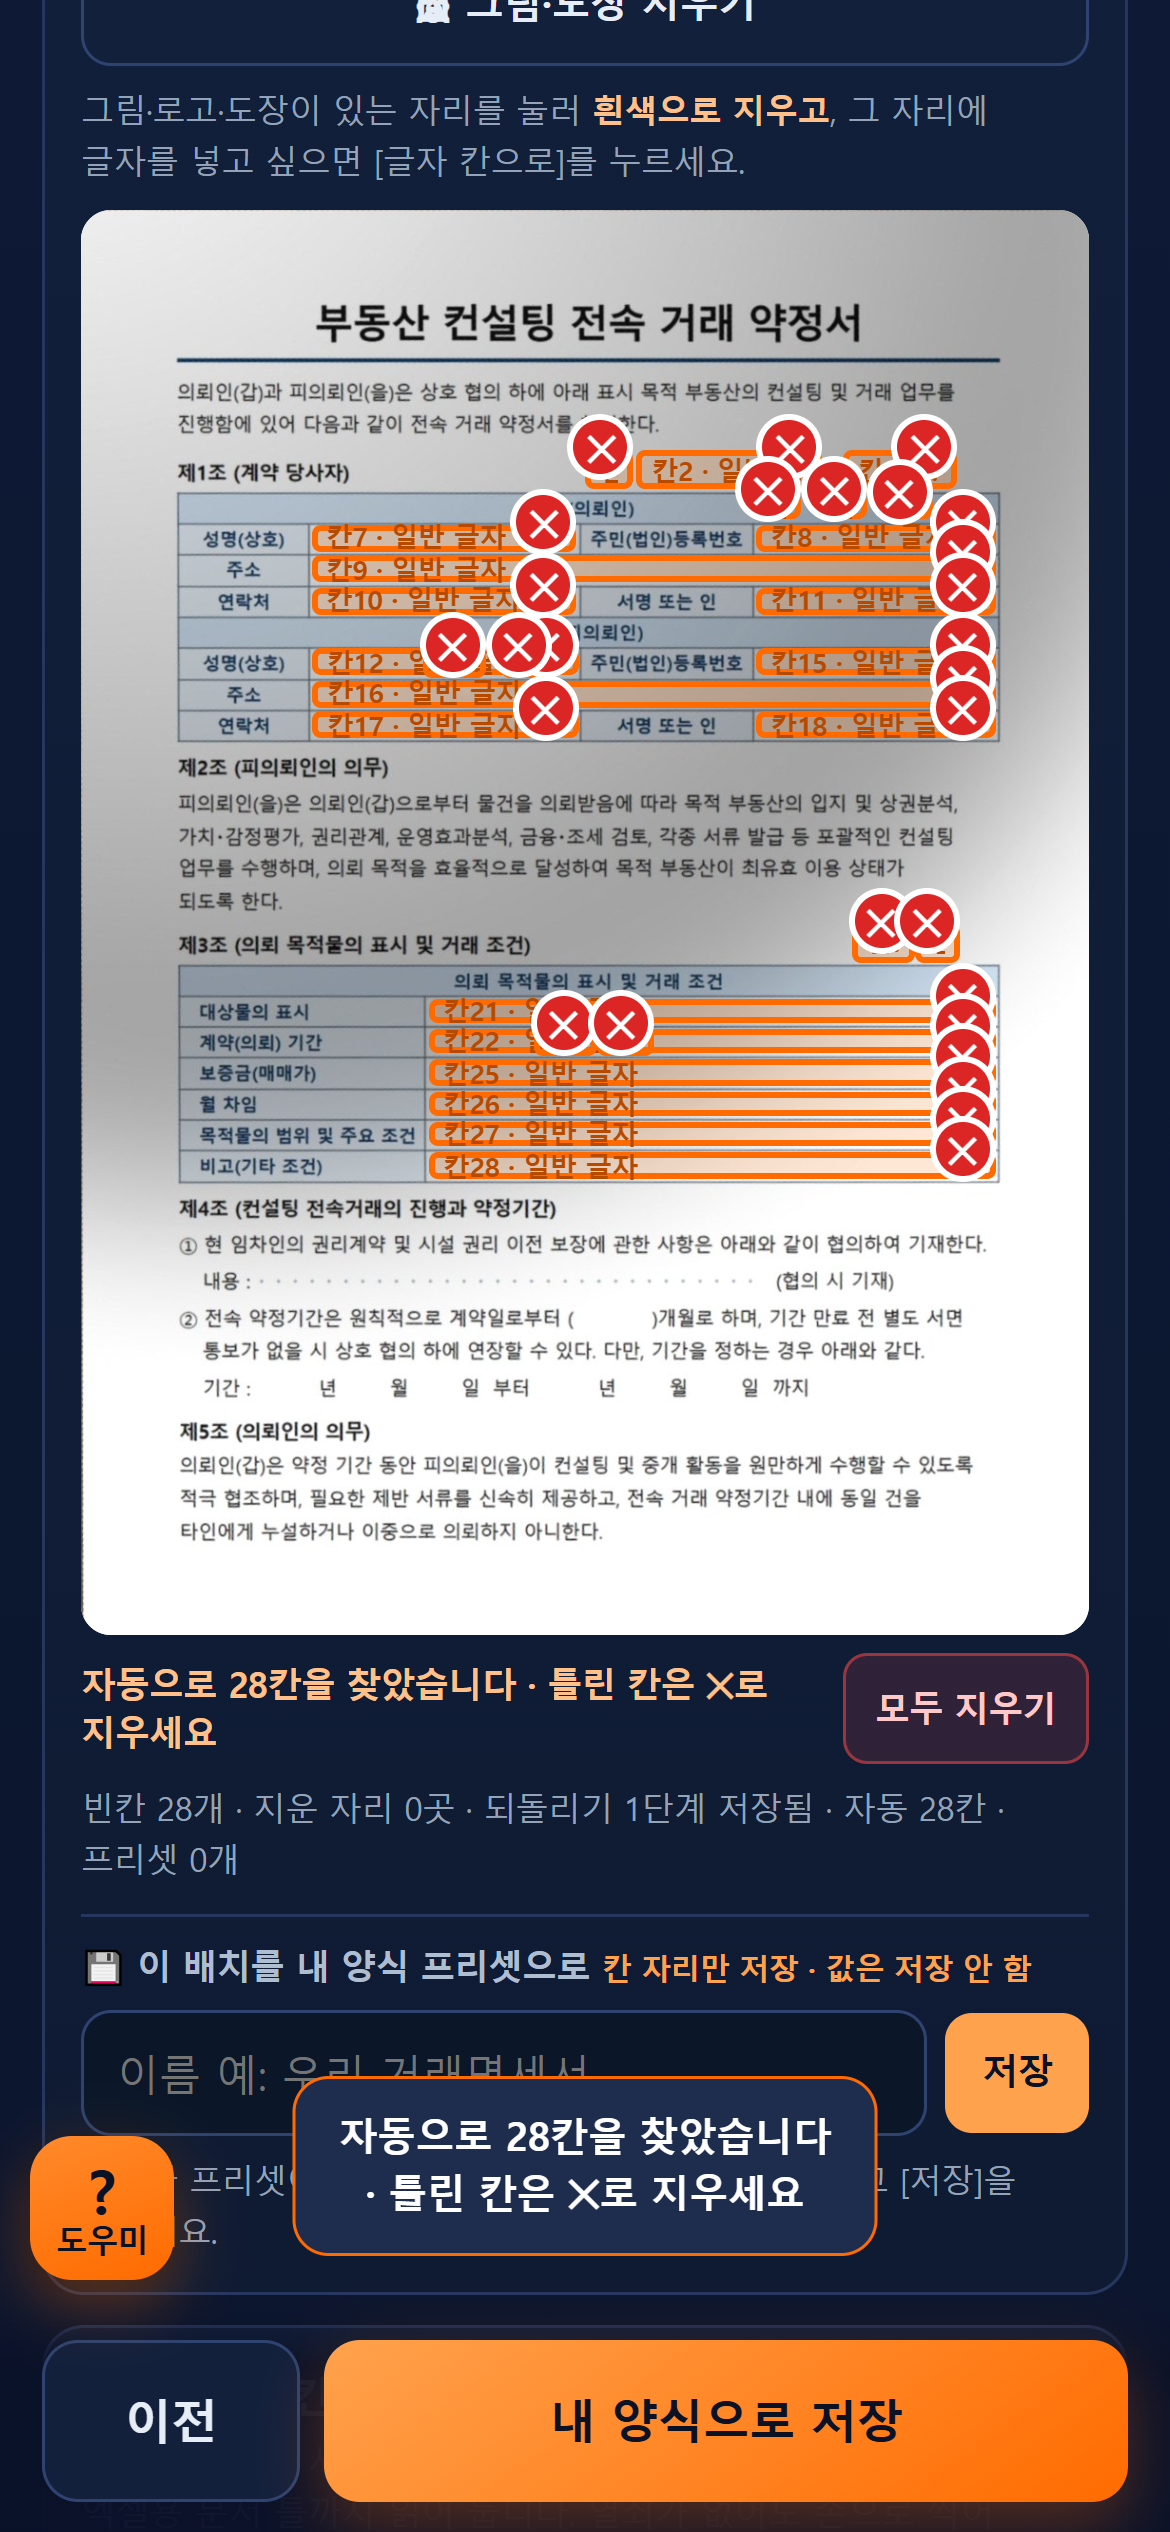
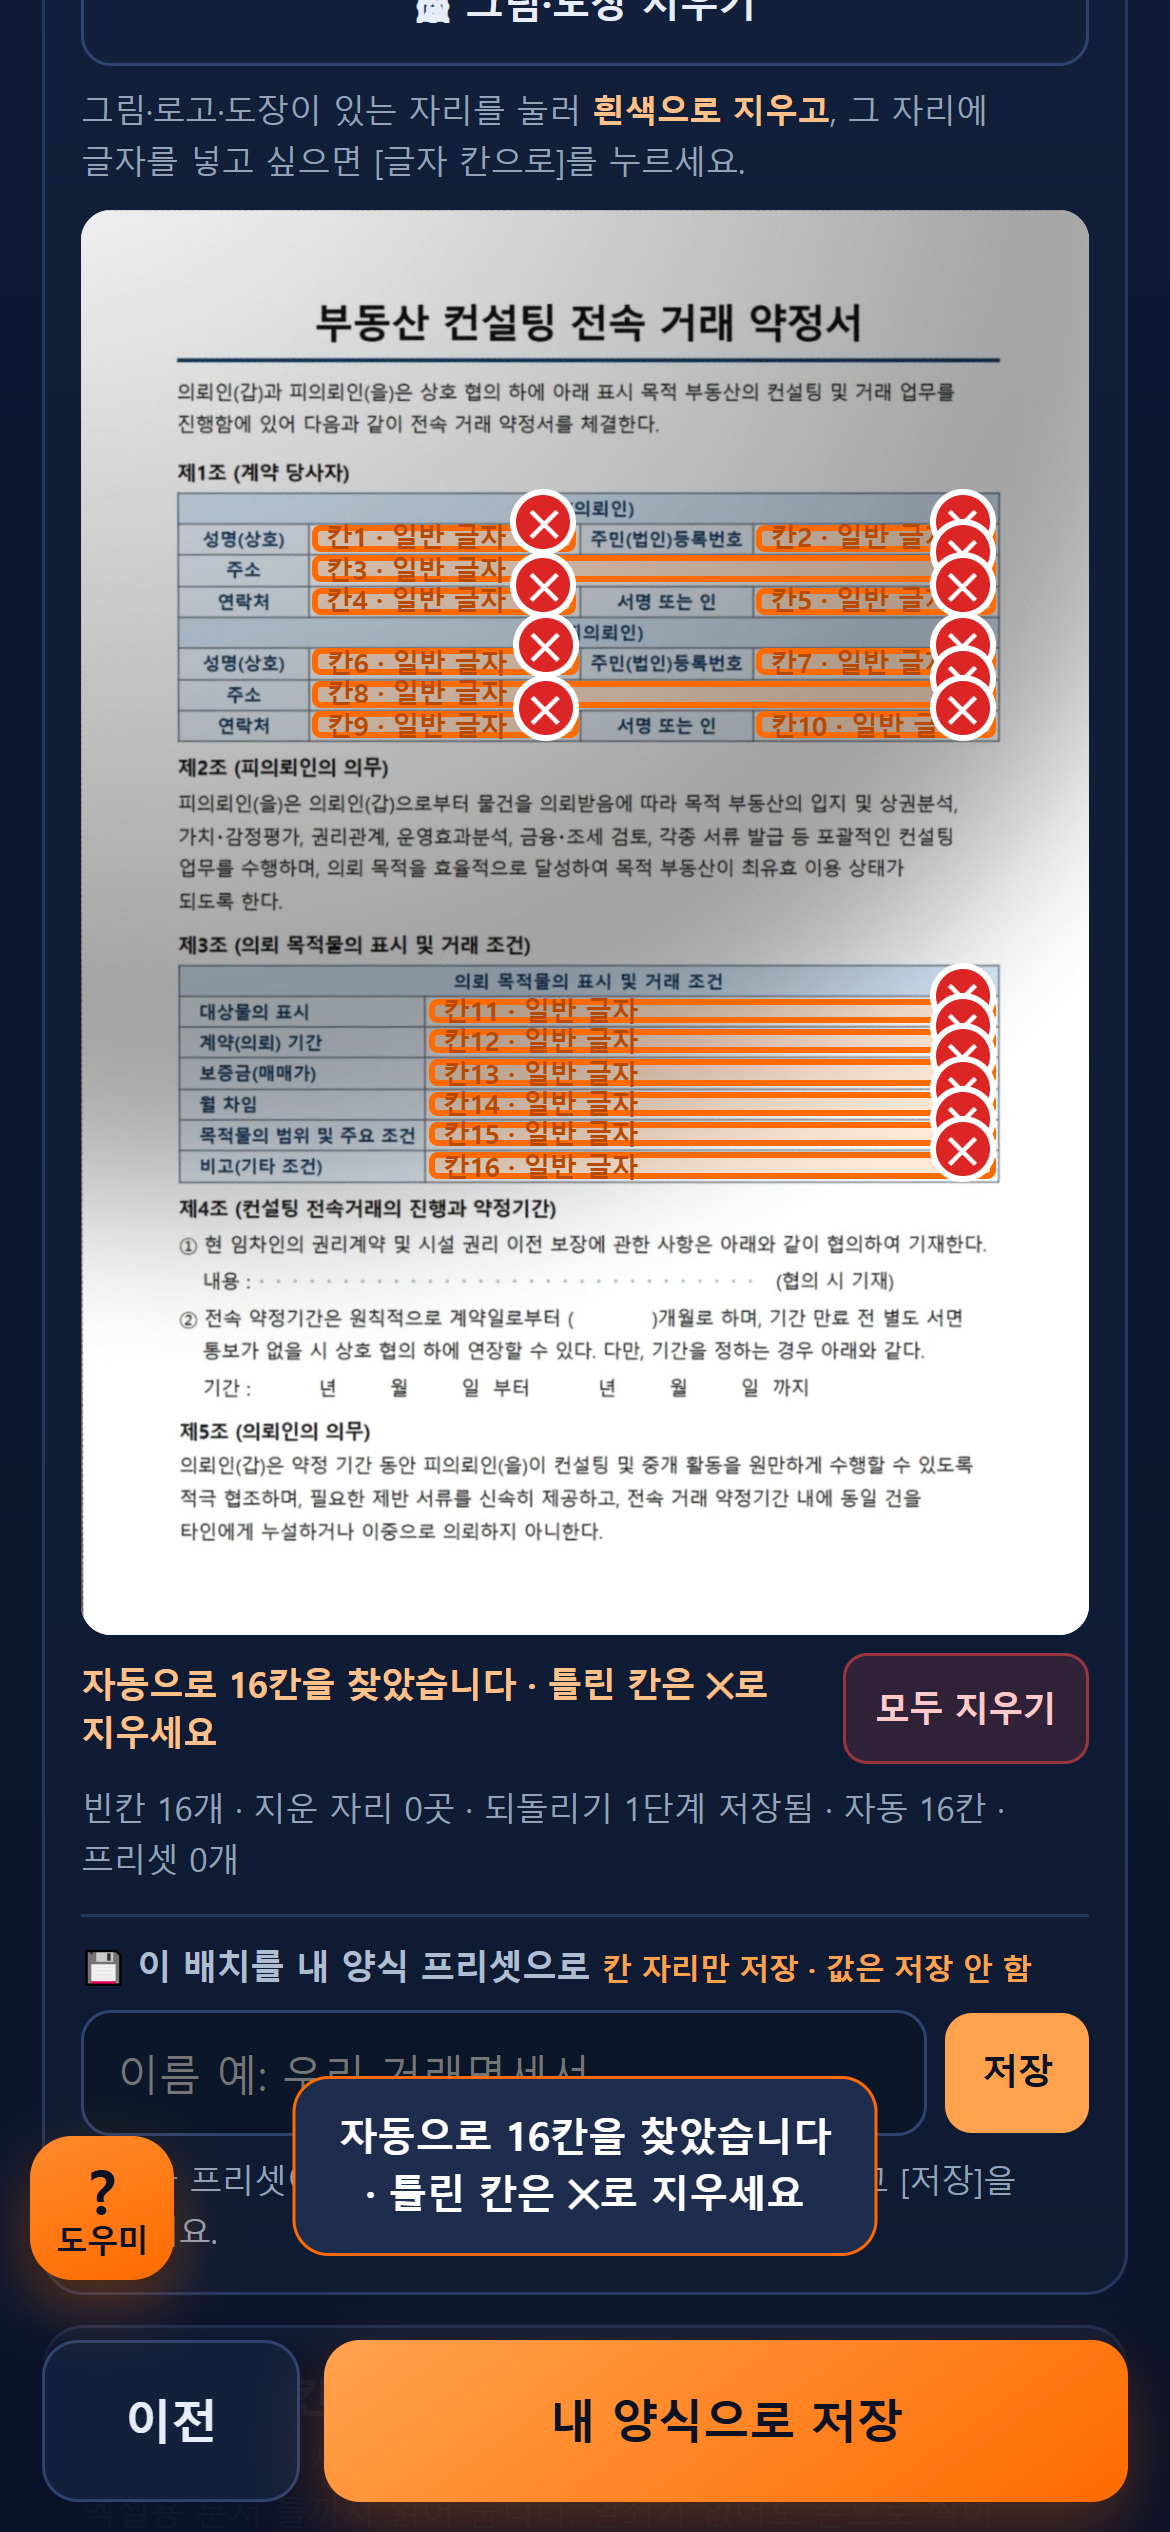
docs(result): 146번 더양식 1클릭 자동 빈칸·다음 칸·프리셋 — 결과 보고·최종 검증·게이트·라이브 확인
이어서 실행(앞 실행 산출물 승계). oneclick 725ee1a 반영.

diff --git a/CLAUDE_RESULT_20261123_THEFORM_AUTO.md b/CLAUDE_RESULT_20261123_THEFORM_AUTO.md
@@ -1,0 +1,92 @@
+# 결과 — 2026-11-23 더양식 1클릭 자동 빈칸·다음 칸·프리셋 (146번)
+
+> **이어서 실행(앞 실행 산출물 승계)** — 앞 실행이 한도로 끊겼다. 앞 실행이 만든 코드 변경(`oneclick/theform/index.html`, 커밋 전)과 산출물(캡처·스크립트·시험 종이, 자동 실행기가 `a807af1` 로 이미 커밋)을 그대로 이어받았다. 이번 회차에 한 일은 최종 코드로 검증 재실행 → 게이트 → `oneclick` 커밋·푸시 → 라이브 확인 → 이 보고서 작성이다. 다시 만든 산출물은 없다(`verify_local.json`·캡처 8장·overlay 3장은 최종 코드 기준으로 덮어썼다).
+
+시작 HEAD: oneclick `16ccac8` (지시서 기대값 `042af4d` 이후 · `theform/index.html` 은 `042af4d` 이후 바뀐 적 없음) / K0612766940K- `7e558fd`
+끝   HEAD: oneclick `725ee1a` / K0612766940K- = 이 보고서 커밋(아래 `git log` 참고)
+커밋: oneclick `725ee1a` feat(theform): 1클릭 자동 빈칸 · 자동 칸 ✕ · 다음 칸/Enter 연속 입력 · 내 양식 프리셋 (146번)
+　　 K0612766940K- `a807af1`(자동 실행기가 앞 실행 중간 산출물을 올린 커밋) + 이 보고서 커밋
+
+## 1. 저장소·기준
+- 두 저장소 pull: 둘 다 원격과 같음(뒤처짐 0) · 충돌 없음. 다른 트랙 커밋(`ab8a70e`·`7bfc226` 큐 문서)은 손대지 않음.
+- `oneclick` 은 `theform/index.html` **한 파일만** stage(`git add theform/index.html`). +290 / −5줄 — 지운 5줄은 모두 **같은 줄을 늘려 쓴 것**(도구줄 div에 클래스 추가·자동 버튼 앞에 붙임, `.fld` 안에 ✕ 붙임, `#fCount` 문구 뒤에 `· 자동 N칸 · 프리셋 N개` 붙임, `renderInputs` 끝에 순번 갱신 1줄, `window.TF` 손잡이 추가). 기존 버튼·문구·함수는 그대로.
+
+## 2. 자동 빈칸 (A)
+- 방식: 캔버스 픽셀만 — 축소(SW≤1000) → 휘도 → 조명 정규화(블록 80퍼센타일·3×3 평균·선형 보간) → 잉크 마스크 → 가로·세로 괘선 → 후보 3종 → IoU 정리. **외부 요청 0**(자동 감지 중 요청 0건, 실측).
+  - (나) 표 칸: 칸 경계를 하나씩 맞추는 대신 **괘선 마스크로 막힌 영역을 이어 칠하기(flood fill)**로 칸을 찾음 → 병합 칸(소재지·주소 같은 긴 칸)도 잡힘. 칸 안 잉크 < 1.5% → 빈칸.
+  - (가) 밑줄·**점선** 위 빈칸: 세로선과 만나지 않는 선 + 선 위아래가 같은 영역일 때만(= 표 테두리 조각 제외). 높이는 한 줄(0.028·SH)까지만.
+  - (다) 콜론 뒤 여백 → **넣음(일반화)**: 글자가 있는 표 칸 안에서 **양옆에 글자가 있는** 빈 구간(≥5% 폭)을 빈칸으로(예: `금 [   ] 원정`, `영수자( [   ] )`). 끝에 남은 여백, `주   소`처럼 한 자씩 띄운 머리글은 뺀다. 콜론(`:`) 글리프를 직접 찾지는 않았다.
+- 축소 폭 SW **1000px** · 임계값: 잉크 **170**(그대로) · 가로 괘선 **40px** · 밑줄 위 잉크비율 **2.5%** · 표 칸 **1.5%**.
+  - 지시서와 다르게 바꾼 것(정직 기록): ① 세로 괘선 최소 길이 30→**20px**(임대차 표 한 줄 높이가 약 27px라 30이면 세로선을 못 잡음) ② 괘선 찾기에만 **능선 검사**(L2<215 이면서 위아래/좌우 3px보다 22 이상 어두움)를 추가 — 임대차 양식의 옅은 회색 괘선(휘도 172~177)이 170 기준에 걸리지 않아 두 줄이 한 칸으로 합쳐지던 문제. 넓게 칠한 색 칸은 능선이 아니므로 빠진다.
+- 결과(실제 손님 경로: `[양식 사진 찍기]`로 파일 등록 → `[다음]` → `[⚡ 1클릭 자동 빈칸]`, 390×844·DPR3·터치):
+
+| 종이 | 찾은 칸 | 오탐 | 정답 칸 덮음 | 감지 시간(알고리즘 / 클릭→완료) | 기대 |
+|---|---|---|---|---|---|
+| 표준 매매계약서 `tpl_sale.png` | **49** | **0** | 45 / 62 | 209ms / 263ms | 40칸↑ · 오탐 5↓ ✅ |
+| 임대차 `tpl_lease.png` | **35** | **1** | 33 / 43 | 166ms / 222ms | 30칸↑ · 오탐 5↓ ✅ |
+| 사진(휘어짐·그늘) | **16** | **0** | 18 / 41 | 214ms / 263ms | 15칸↑ · 오탐 6↓ ✅ |
+
+  - 오탐 판정: 표준 양식에 이미 들어 있는 칸 좌표(정답)와 맞대서 **자동 칸 중심이 정답 칸(±1.5%) 밖이면 오탐**으로 셌고, overlay 그림(`overlay_*.png`, 주황=맞음·빨강=오탐)으로 눈으로도 확인. 임대차 오탐 1개는 `원정 (계약시 지불하고 영수함)` 오른쪽의 **실제로 비어 있는 작은 표 칸**이다(정답 목록에 없어서 오탐으로 셈).
+  - 사진 종이는 실제 폰 사진이 없어 **합성**했다: `tpl_consult_p1.png` 를 8° 회전 + 책상 배경 + 좌상단 그늘(최대 약 45%) + 노이즈 + 약한 흐림 → `testset/photo_consult_rot8_shadow.jpg`(1700×2200). 앱의 기존 귀퉁이 보정이 1060×1500으로 편 뒤 감지했다. 사진 종이의 점선(`내용: · · ·`)과 `(    )개월` 괄호 안 여백은 못 잡음.
+  - 성능 기준 ≤1500ms: 1,700px 사진에서 **최대 263ms**(클릭→완료).
+- ✕ 삭제: 4번째 ✕ 1탭 → 칸 28→27(최종 코드 기준 16→15), 지운 칸만 사라지고 **나머지 칸 좌표 변화 0**, 토스트 `칸을 지웠습니다`. ✕ 를 마우스로 누른 채 끌어도 다른 칸이 움직이지 않음(드래그 시작 안 됨). 되돌리기 2회 → 16칸 복구. ✕ 크기 22×22, 터치 영역(::before) 34×34. **확인**
+- 모두 지우기: 자동 16 + 수동 1 → 자동 **0** · 수동 **1** 유지, 안내줄 사라짐 · 되돌리기 1회로 16+1 복구. **확인**
+- 자동 감지 실행 직후 되돌리기 1회로 자동 칸 통째로 사라짐(push 전 `snap()` 1회). **확인**
+- 손 기능 보존: `+` 1칸 추가(이름표로 포커스) · 드래그 이동(x+8.93%, y+5.26%) · 파란 점 크기 조절(w+7.44%, h+2.52%) · `[칸 삭제]` 1칸 · `[🖼 그림·도장 지우기]` 1곳 — 전부 이전과 같음. 손으로 만든 칸엔 ✕ 없음. **확인**
+- 기본 양식(보기 전용)에서 `[⚡ 1클릭 자동 빈칸]` → `기본 양식은 이미 빈칸이 잡혀 있습니다 · 내 양식에서 쓰세요`, 칸 수 변화 0. 흰 종이(캔버스 배경)면 `사진으로 등록한 양식에서 씁니다`.
+- 이름표 자동 채우기(OCR): **하지 않음**(지시서대로). 이름표는 `칸1·칸2…`.
+- 버튼 `#autoF` 336×40px(첫 도구줄 맨 앞, 한 줄 전체 폭 — 390 폭에서 5개를 한 줄에 넣으면 `되돌리기` 글자가 넘쳐서 줄바꿈 배치).
+
+## 3. 다음 칸 (B)
+- 이동 순서: `CUR.fields` 배열 순서 · 지운 자리 / 서명 / 자동 계산 칸 제외 · 여러 줄 칸은 Enter=줄바꿈, `[다음 칸 ▶]` 로만 넘어감.
+  - 거래명세서(`b_trade`): 칸 23개 중 이동 대상 18개 — 자동 계산 칸 전부 제외, 서명 1칸 제외 **확인**.
+- 한글 조합 중 Enter(`isComposing` / `keyCode 229` 두 경우): **이동 안 함(확인)** · 확정 후 Enter: **이동(확인)**. ※ 실제 한글 자판 조합은 헤드리스 브라우저에서 못 만들어서 조합 중 Enter는 해당 속성을 단 키 이벤트로 시험했다.
+- 5칸 연속 입력 실측: **5/5** 성공(0→1→2→3→5→6, 4번은 자동 계산 칸이라 건너뜀). 값 저장은 4/5 — 첫 칸 `작성일`이 날짜 입력칸이라 한글 "김"이 들어가지 않는 기존 동작(바뀐 것 아님).
+- `[다음 칸 ▶]` 3회: 6→7→8→10 · 순번 `7 / 18`→`8 / 18`→`9 / 18` · `[◀ 이전 칸]` 1회 → 8. 버튼 높이 44px.
+- 마지막 칸 안내: `마지막 칸입니다 · [미리보기]로 넘어가세요` + 포커스 `#nextBtn`.
+- 자동 계산 그대로: 수량1=3, 단가1=1000 → 금액1 `3000`.
+- 여러 줄 칸(매매계약서 특약사항): Enter → `첫째 줄\n둘째 줄`, 포커스 그대로 · `[다음 칸 ▶]` 로 다음 칸 이동.
+
+## 4. 프리셋 (C)
+- 키 `tf_presets_v1` · 최대 12개 · 저장 필드 **label/type/x/y/w/h**(+ 프리셋 머리 id/name/n/w/h/at) · **값 0건**(저장본에 vals 없음 확인).
+- 지시서와 다르게 한 것(정직 기록): 지시서는 "`_auto` 칸은 저장하지 않는다"였지만, 그대로 하면 자동 빈칸으로 만든 배치는 프리셋으로 하나도 저장되지 않는다. 그래서 **`_auto` 표시는 떼고 칸 배치는 저장**했다. 지운 자리(`erase`·`_add`)는 지시서대로 저장하지 않음. 대표님 판단이 다르면 한 줄로 되돌릴 수 있다.
+- 같은 이름 저장 → `같은 이름이 있습니다. 덮어쓸까요?` → 덮어써서 개수 1 유지. `#fCount` 끝에 `· 프리셋 1개`.
+- 새로고침 후 유지: `시험1:16` **확인**.
+- 다른 종이(임대차) 등록 → `[불러오기]` → 0→16칸(프리셋과 같은 수), 토스트 `프리셋 배치를 얹었습니다 · 16칸` · 되돌리기 1회 → 0칸 **확인**.
+- 같은 라벨 값 유지: 불러오기 전 `칸1=홍길동` → 불러온 뒤 3단계 입력칸에 `홍길동` 그대로 **확인**(값이 라벨 이름으로 저장되기 때문 — 같은 종이를 다시 찍어 프리셋을 얹으면 지난 값이 그대로 따라온다는 장점).
+- 비율 8% 넘으면 경고(1700×1000 종이): `종이 비율이 조금 다릅니다. 그래도 이 배치를 얹을까요?` **확인**.
+- 기본 양식에서 저장 → `기본 양식은 [복제] 후 쓰세요` 로 막힘.
+
+## 5. 검증 숫자
+- scrollWidth **390**(1단계·2단계·3단계 모두) · 자동 감지 최대 **263ms**(클릭→완료) · 콘솔 에러 **0** · 새 외부 요청 **0**(전체 흐름 요청 호스트: 로컬 `127.0.0.1` 뿐 / 라이브: `autooneclick.com` 뿐).
+- 캡처 13장 — `output/theform_auto_20261123/`:
+  - 전: `before_390_s2.png`(표준 매매계약서 빈칸 지정, 칸 62 · 무대 336×475 · 자동 버튼 없음) · `before_390_photo.png`(사진 등록 후 빈칸 지정, 칸 0)
+  - 후: `after_390_auto_sale.png` · `after_390_auto_lease.png` · `after_390_auto_photo.png` · `after_390_xdelete_before.png` / `after_390_xdelete_after.png` · `after_390_next.png` · `after_390_multi.png` · `after_390_preset.png` — 전부 390 폭(DPR3=1170px) 그대로, 가로 넘침 없음(scrollWidth 390). 버튼·안내줄이 잘리거나 겹친 곳은 눈으로 보지 못했다.
+  - 판정용: `overlay_sale.png` · `overlay_lease.png` · `overlay_photo.png` · `tune/tune_p_*.png`(표준 4종 조정 기록)
+- 검증 스크립트·원자료: `src/verify.py` → `verify_local.json` · `src/tune.py` · `src/make_photo.py` · `src/cap_before.py` · 라이브 확인 `live_smoke.json`.
+
+## 6. 게이트
+- kts_gate(이식판): **새로 생긴 FAIL 0** · 출력 `output/theform_auto_20261123/gate.txt` · 사용한 게이트: `output/theform_auto_20261123/src/gate_theform.ps1`(새로 만듦 — `slope_ui_20261123/src/gate_slope.ps1` 를 복사해 대상만 `theform/index.html` 로 바꾸고 `G1-1 파일 존재`·`G1-7 원가·내부문구` 검사를 추가. 변경 전 파일을 `git show` 로 읽을 때 콘솔 글자 깨짐 때문에 G1-2가 거짓 FAIL로 나와 임시 파일을 거쳐 UTF-8로 읽게 고침).
+- 전/후: G1-1·G1-2·G1-3·G1-5·G1-7·G1-8·G1-9·개인경로 전부 PASS→PASS. **G1-6 연락처는 전 FAIL 3 → 후 FAIL 3(그대로)** — 이번 변경과 무관한 기존 **예시 값**(`010-0000-0000` 입력칸 placeholder, `010-1234-5678`·`sample@example.com` 예시 값 넣기). 실제 개인정보가 아니고 제0원칙 때문에 손대지 않았다. 지시서의 "FAIL 0 필수"는 이 기존 3건 때문에 **글자 그대로는 충족하지 못함**.
+- G1-4(모달 닫기 경로)는 이식판에 검사 항목이 없다. 이번 변경에는 새 모달이 없다(`confirm` 대화창만 사용).
+
+## 7. 라이브
+- `curl` 2번째 시도에서 반영 확인(1번째는 배포 전): `/theform/` '1클릭 자동 빈칸' **뜸** · '내 양식 프리셋' **뜸** · '다음 칸 ▶' **뜸**.
+- 라이브 390×844 실측: 매매계약서 사진 등록 → 자동 **49칸 / 205ms** · 자동 감지 중 요청 0건 · 콘솔 에러 0 · scrollWidth 390(`live_smoke.json`).
+
+## 실패·우회 원문 기록
+- 앞 실행: bash heredoc 안의 `` ` ``·`$$(` 때문에 `unexpected EOF while looking for matching ''`·"dangerous removal" 판정으로 명령이 막힘 → 코드 조각을 파일(`src/*.js`, `src/patch_b.py`)로 쓰고 파이썬으로 끼워 넣는 방식으로 우회.
+- 앞 실행: `sed -i` 가 `theform/index.html` 줄바꿈을 CRLF→LF로 바꿈 → 이번 회차에 CRLF로 되돌림(git diff 는 처음부터 변경 줄만 잡힘).
+- `print` 가 cp949 콘솔에서 `UnicodeEncodeError: 'cp949' codec can't encode character '✕'` → `PYTHONIOENCODING=utf-8` 로 우회.
+- `oneclick` 커밋 전 `git pull --rebase` → `error: cannot pull with rebase: You have unstaged changes.` (원격에 새 커밋이 없어 영향 없음, 푸시는 fast-forward 로 성공 · 원격 `725ee1a` 확인).
+
+## 건드리지 않은 것 (확인함)
+- 표준 양식 6종·빈칸 좌표·색감 · 내보내기(hwpx/xlsx/PDF/인쇄) · 자동계산(`runCalc` 무변경, 3000 계산 확인) · 서명 · 음성 · 사진 자동 채우기·Gemini 열쇠 · 값 저장 키(`tf_forms_v1`·`tf_vals_*`·`tf_addf_*`·`tf_db`) · 그림·도장 지우기 · 60초 문의 · `KTS_UX_CFG`·`ux.js`·`helper.js` · 다른 페이지 0건(`oneclick` 변경 파일 = `theform/index.html` 1개).
+- 대외 판매·광고·문자·스토어 업로드 0건(관문 6). 배포는 `autooneclick.com/theform/` 반영까지.
+
+## 대표님 확인 필요
+1) 표준 매매계약서를 찍고 [1클릭 자동 빈칸]을 눌렀을 때 칸이 쓸 만하게 깔리는지(오탐이 눈에 거슬리는지) — 표 칸·밑줄·특약사항 점선은 잘 잡히고, 표 밖 문장 속 `년 ___ 월` 같은 짧은 빈칸과 옅은 점선은 아직 못 잡는다.
+2) 값 입력에서 Enter 로 줄줄이 넘어가는 리듬이 손에 맞는지(실제 폰 한글 자판으로 조합 중 Enter 한 번 확인 부탁드립니다 — 헤드리스 브라우저에서는 이벤트로만 시험했습니다).
+3) 프리셋 이름을 뭐로 쓰실지(예: '우리 거래명세서') — 손님이 직접 정한다. 자동으로 찾은 칸도 프리셋에 저장되게 한 것(§4)이 괜찮은지.
+
+남은 것: 없음(지시서 A·B·C·D 완료). 단, 게이트 G1-6 기존 예시 값 3건은 손대지 않고 남겨 둠.
